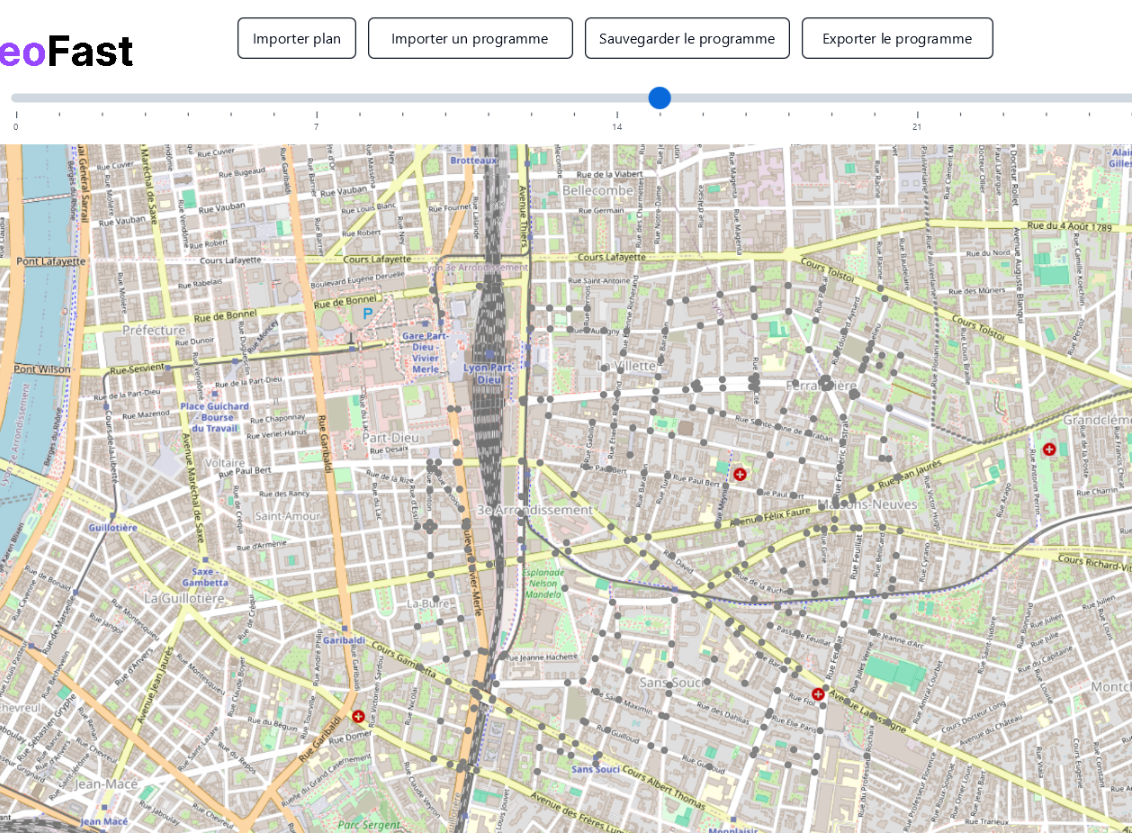
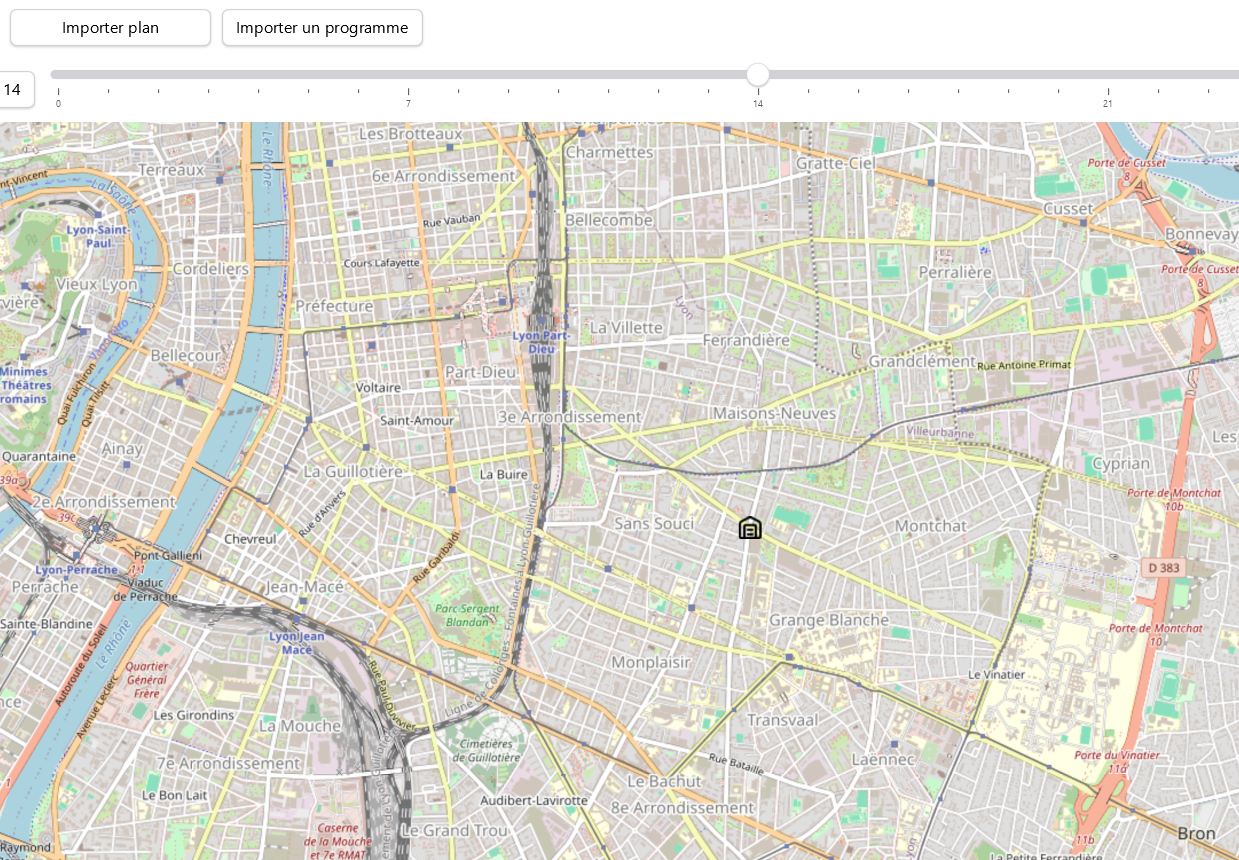
Feat/manuel utilisateur v2 (#98)
* manuel utilisateur (final???)

* lien readme et manuel utilisateur

diff --git a/MANUEL_UTILISATEURS.md b/MANUEL_UTILISATEURS.md
@@ -1,6 +1,6 @@
 # GeoFast - Manuel pour les utilisateurs
 
-## 1. Importer un plan
+## <a id="partie1"/>1. Importer un plan
 
 ![import_plan.png](ressource/import_plan.png)
 
@@ -10,7 +10,7 @@ Après avoir cliquer sur le bouton, vous devez selectionner le fichier xml.
 
 ![selection_fichier_plan_xml.png](ressource/selection_fichier_plan_xml.png)
 
-Le fichier xml doit être semblable à ce qui suit :
+Le fichier xml doit être semblable à ce qui suit : <a id="xmlplan"></a>
 
 ```xml
 <?xml version="1.0" encoding="UTF-8" standalone="no"?>
@@ -30,16 +30,16 @@ Le fichier xml doit être semblable à ce qui suit :
 <segment destination="25303831" length="118.890465" name="Avenue Lacassagne" origin="975886496"/>
 </map>
 ```
-Un fois le plan chargé, les points d'intersections sont visibles en gris sur la carte.
+Une fois le plan chargé, le warehouse s'affiche sur la carte et le bouton importer un programme apparait.
 
 ![chargement_plan.png](ressource/chargement_plan.png)
 
-## 2. Importer un programme de livraison
+## <a id="partie2"/>2. Importer un programme de livraison
 
 ![import_programme.png](ressource/import_programme.png)
 
 Cette fonctionnalité permet de charger un programme de livraison à partir d’un fichier xml.
-Au préalable, vous devez avoir importé un plan (voir partie 1)
+Au préalable, vous devez avoir importé un plan ([voir partie 1](#xmlplan))
 
 Après avoir cliqué sur le bouton, vous devez selectionner le fichier xml.
 
@@ -56,9 +56,37 @@ Le fichier xml doit être semblable à ce qui suit :
   <request courier="2" deliveryAddress="975886496" deliveryDuration="480" deliveryTime="10"/>
 </planningRequest>
 ```
-les "deliveryAddress" devant correspondre au "id" des intersections du plan (voir partie 1).
 
-Un fois le programme chargé, les points de livraison de chaque livreur sont visibles sur la carte et sur la partie droite de l'interface.
+les "deliveryAddress" doivent correspondre au "id" des intersections du [plan](#xmlplan).
 
-[IMAGE]
+Une fois le programme chargé, les points de livraison de chaque livreur sont visibles sur la carte et sur la partie droite de l'interface.
+
+![resultat_import_programme.png](ressource/resultat_import_programme.png)
+
+De plus, le menu de droite est mis à jour. Il affiche chaque livreur ainsi que ses points de livraison
+dans une liste déroulante.
+
+## <a id="partie3"/>3. Calculer les tournées d'un programme de livraison
+
+![calcul_tournee.png](ressource/calcul_tournee.png)
+
+Cette fonctionnalité permet de lancer le calcul des tournées de chaque livreur.
+Au préalable, vous devez avoir importé un programme de livraison ([voir partie 2](#partie2)).
+
+Quand le calcul est terminé, le trajet de livraison de chaque livreur apparait sur la carte.
+Les points de livraison sont ordonnés et le trajet est mis en couleur.
+
+![resutat_calcul_tournee.png](ressource/resutat_calcul_tournee.png)
+
+Vous pouvez afficher ou cacher les tournées de livraison des livreurs grâce au checkboxes.
+
+## <a id="partie4"/>4. Export des tournées de livraison au format pdf
+
+![export_tournee_pdf.png](ressource/export_tournee_pdf.png)
+
+Cette fonctionnalité permet d'exporter les tournées de livraison dans un fichier pdf.
+
+Au préalable, vous devez avoir calculer les tournées d'un programme de livraison ([voir partie 3](#partie3)).
+
+Le fichier PDF généré contiendra la liste de route de chaque livreur.
 

diff --git a/README.md b/README.md
@@ -4,6 +4,8 @@ GeoFast est une application Java qui vous permet de trouver le chemin le plus co
 Elle utilise l'algorithme A* pour trouver le chemin le plus court. Ce projet a été réalisé dans le cadre du cours
 PLD-AGILE à l'INSA de Lyon.
 
+ [Manuel utilisateur](MANUEL_UTILISATEURS.md)
+
 ## Stack technologique
 
 ### Interface Utilisateur (UI)
